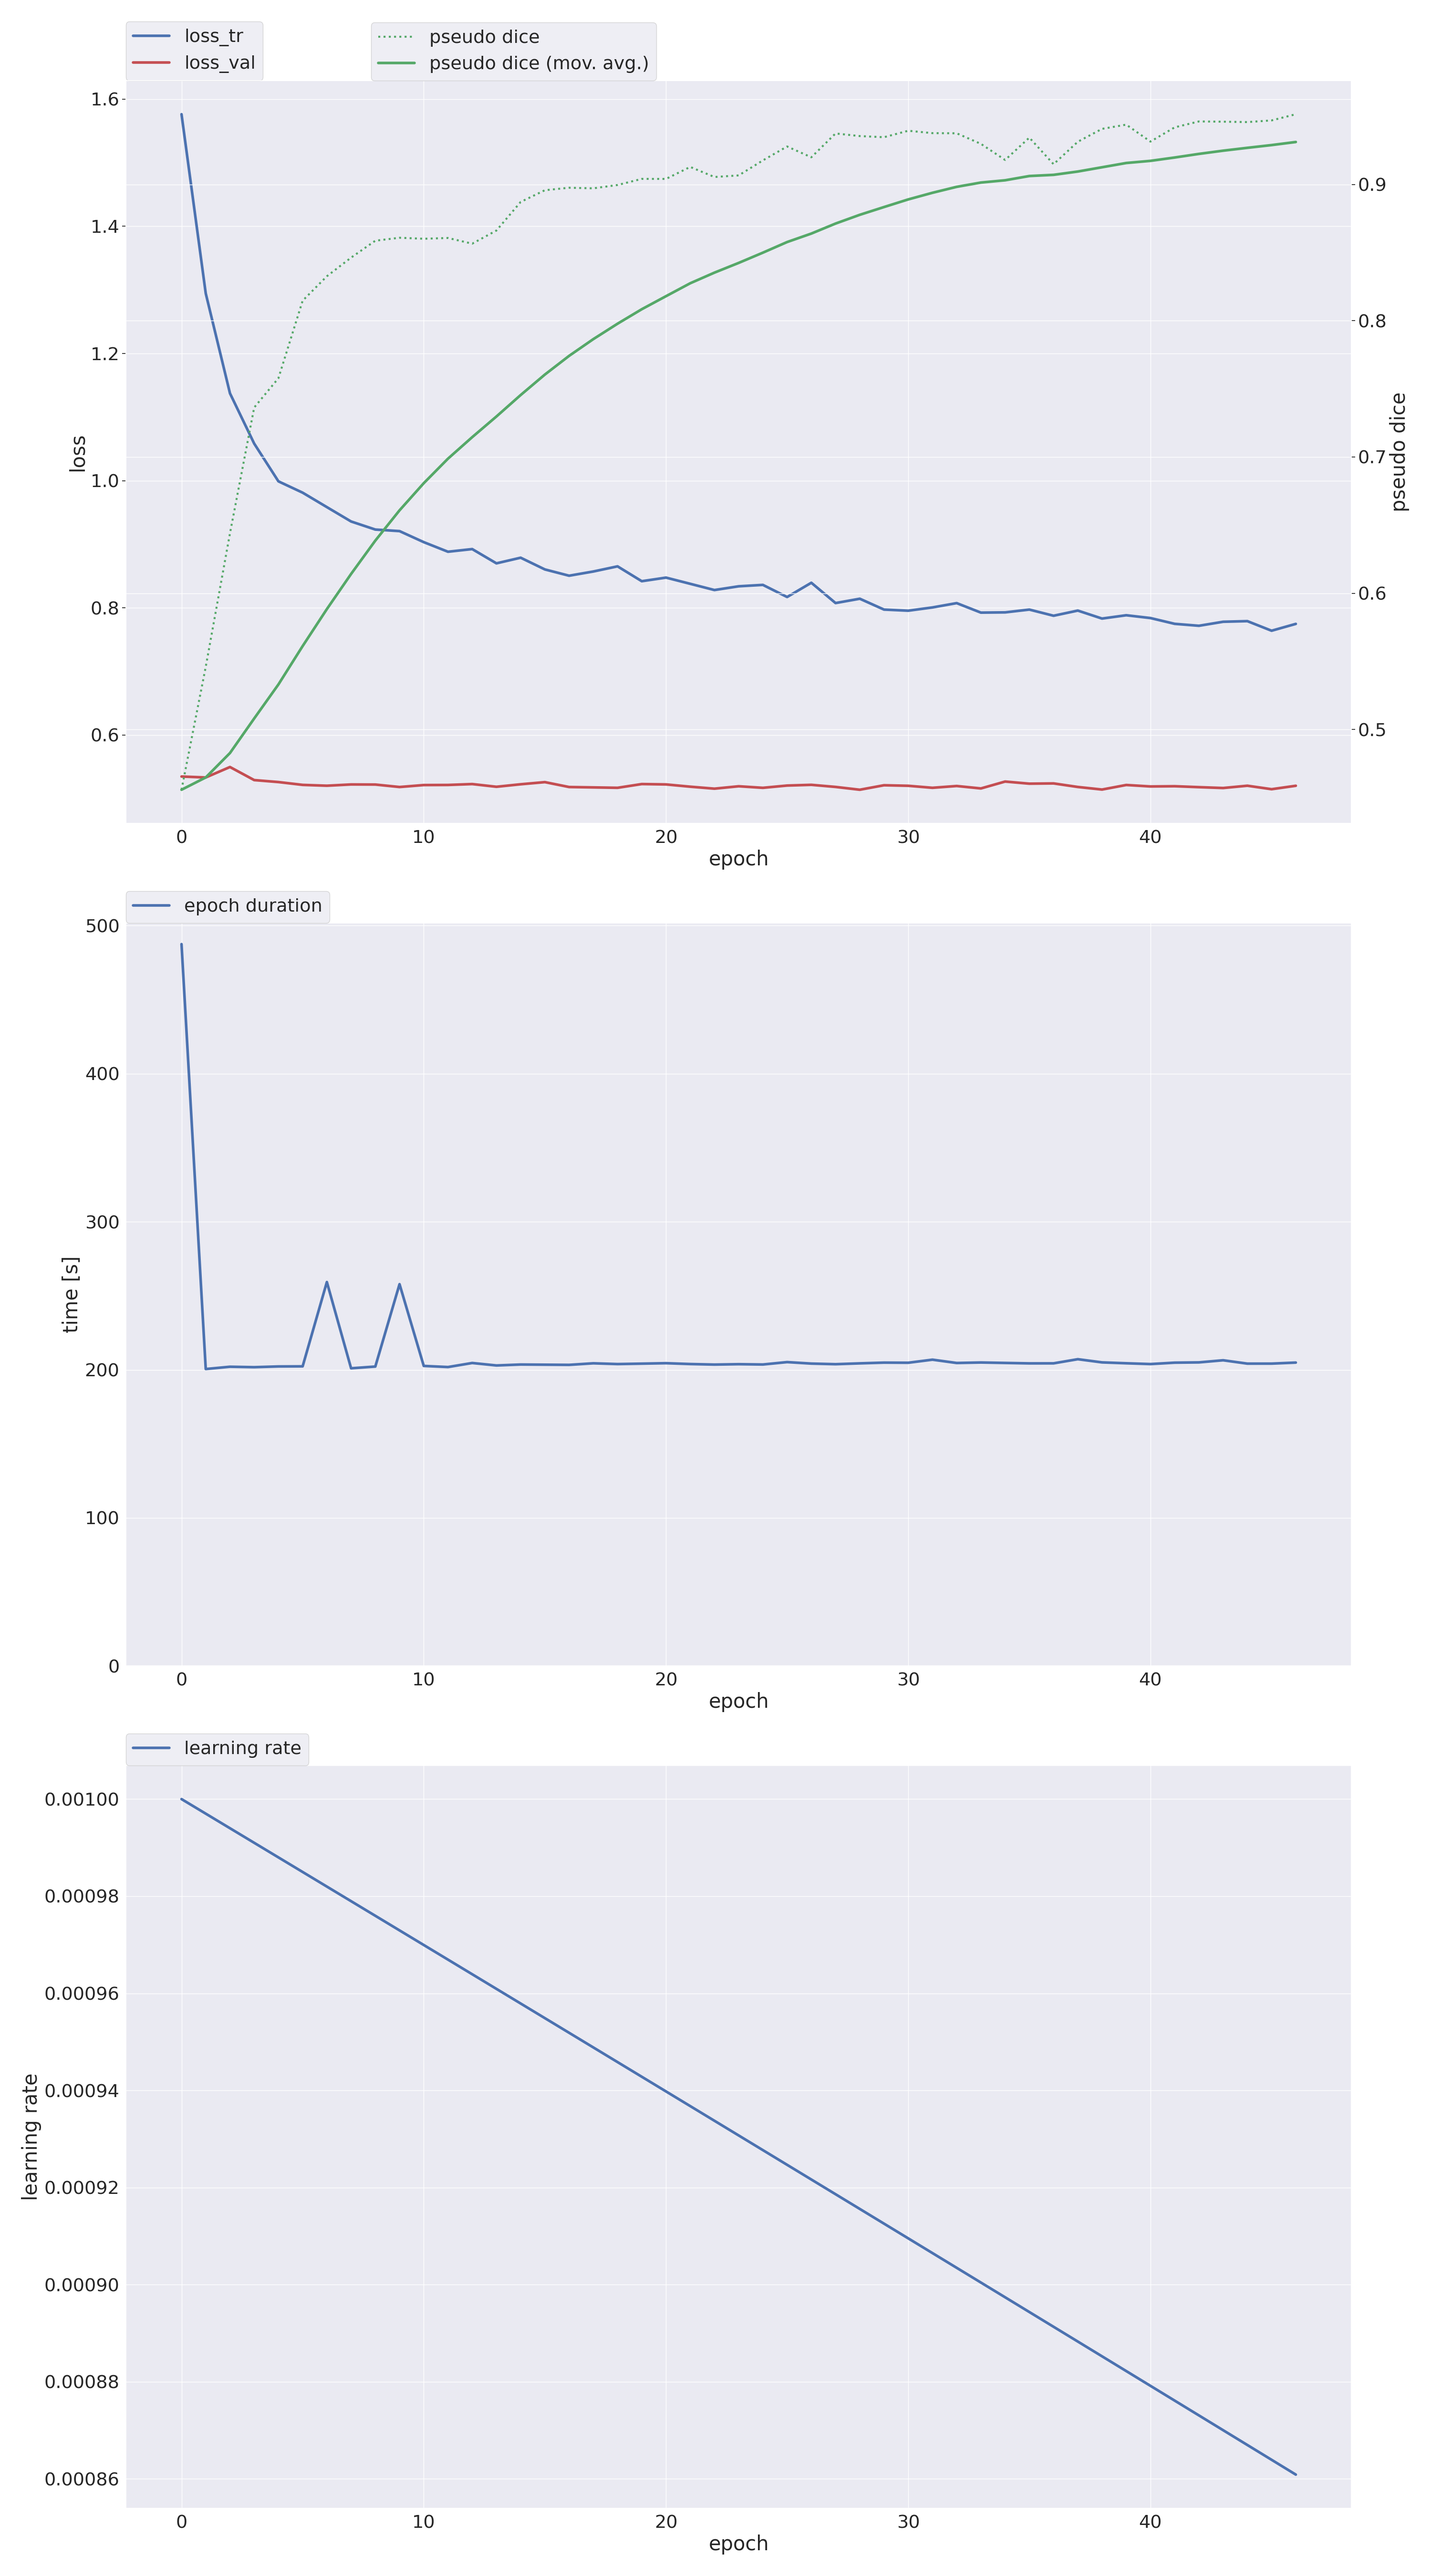
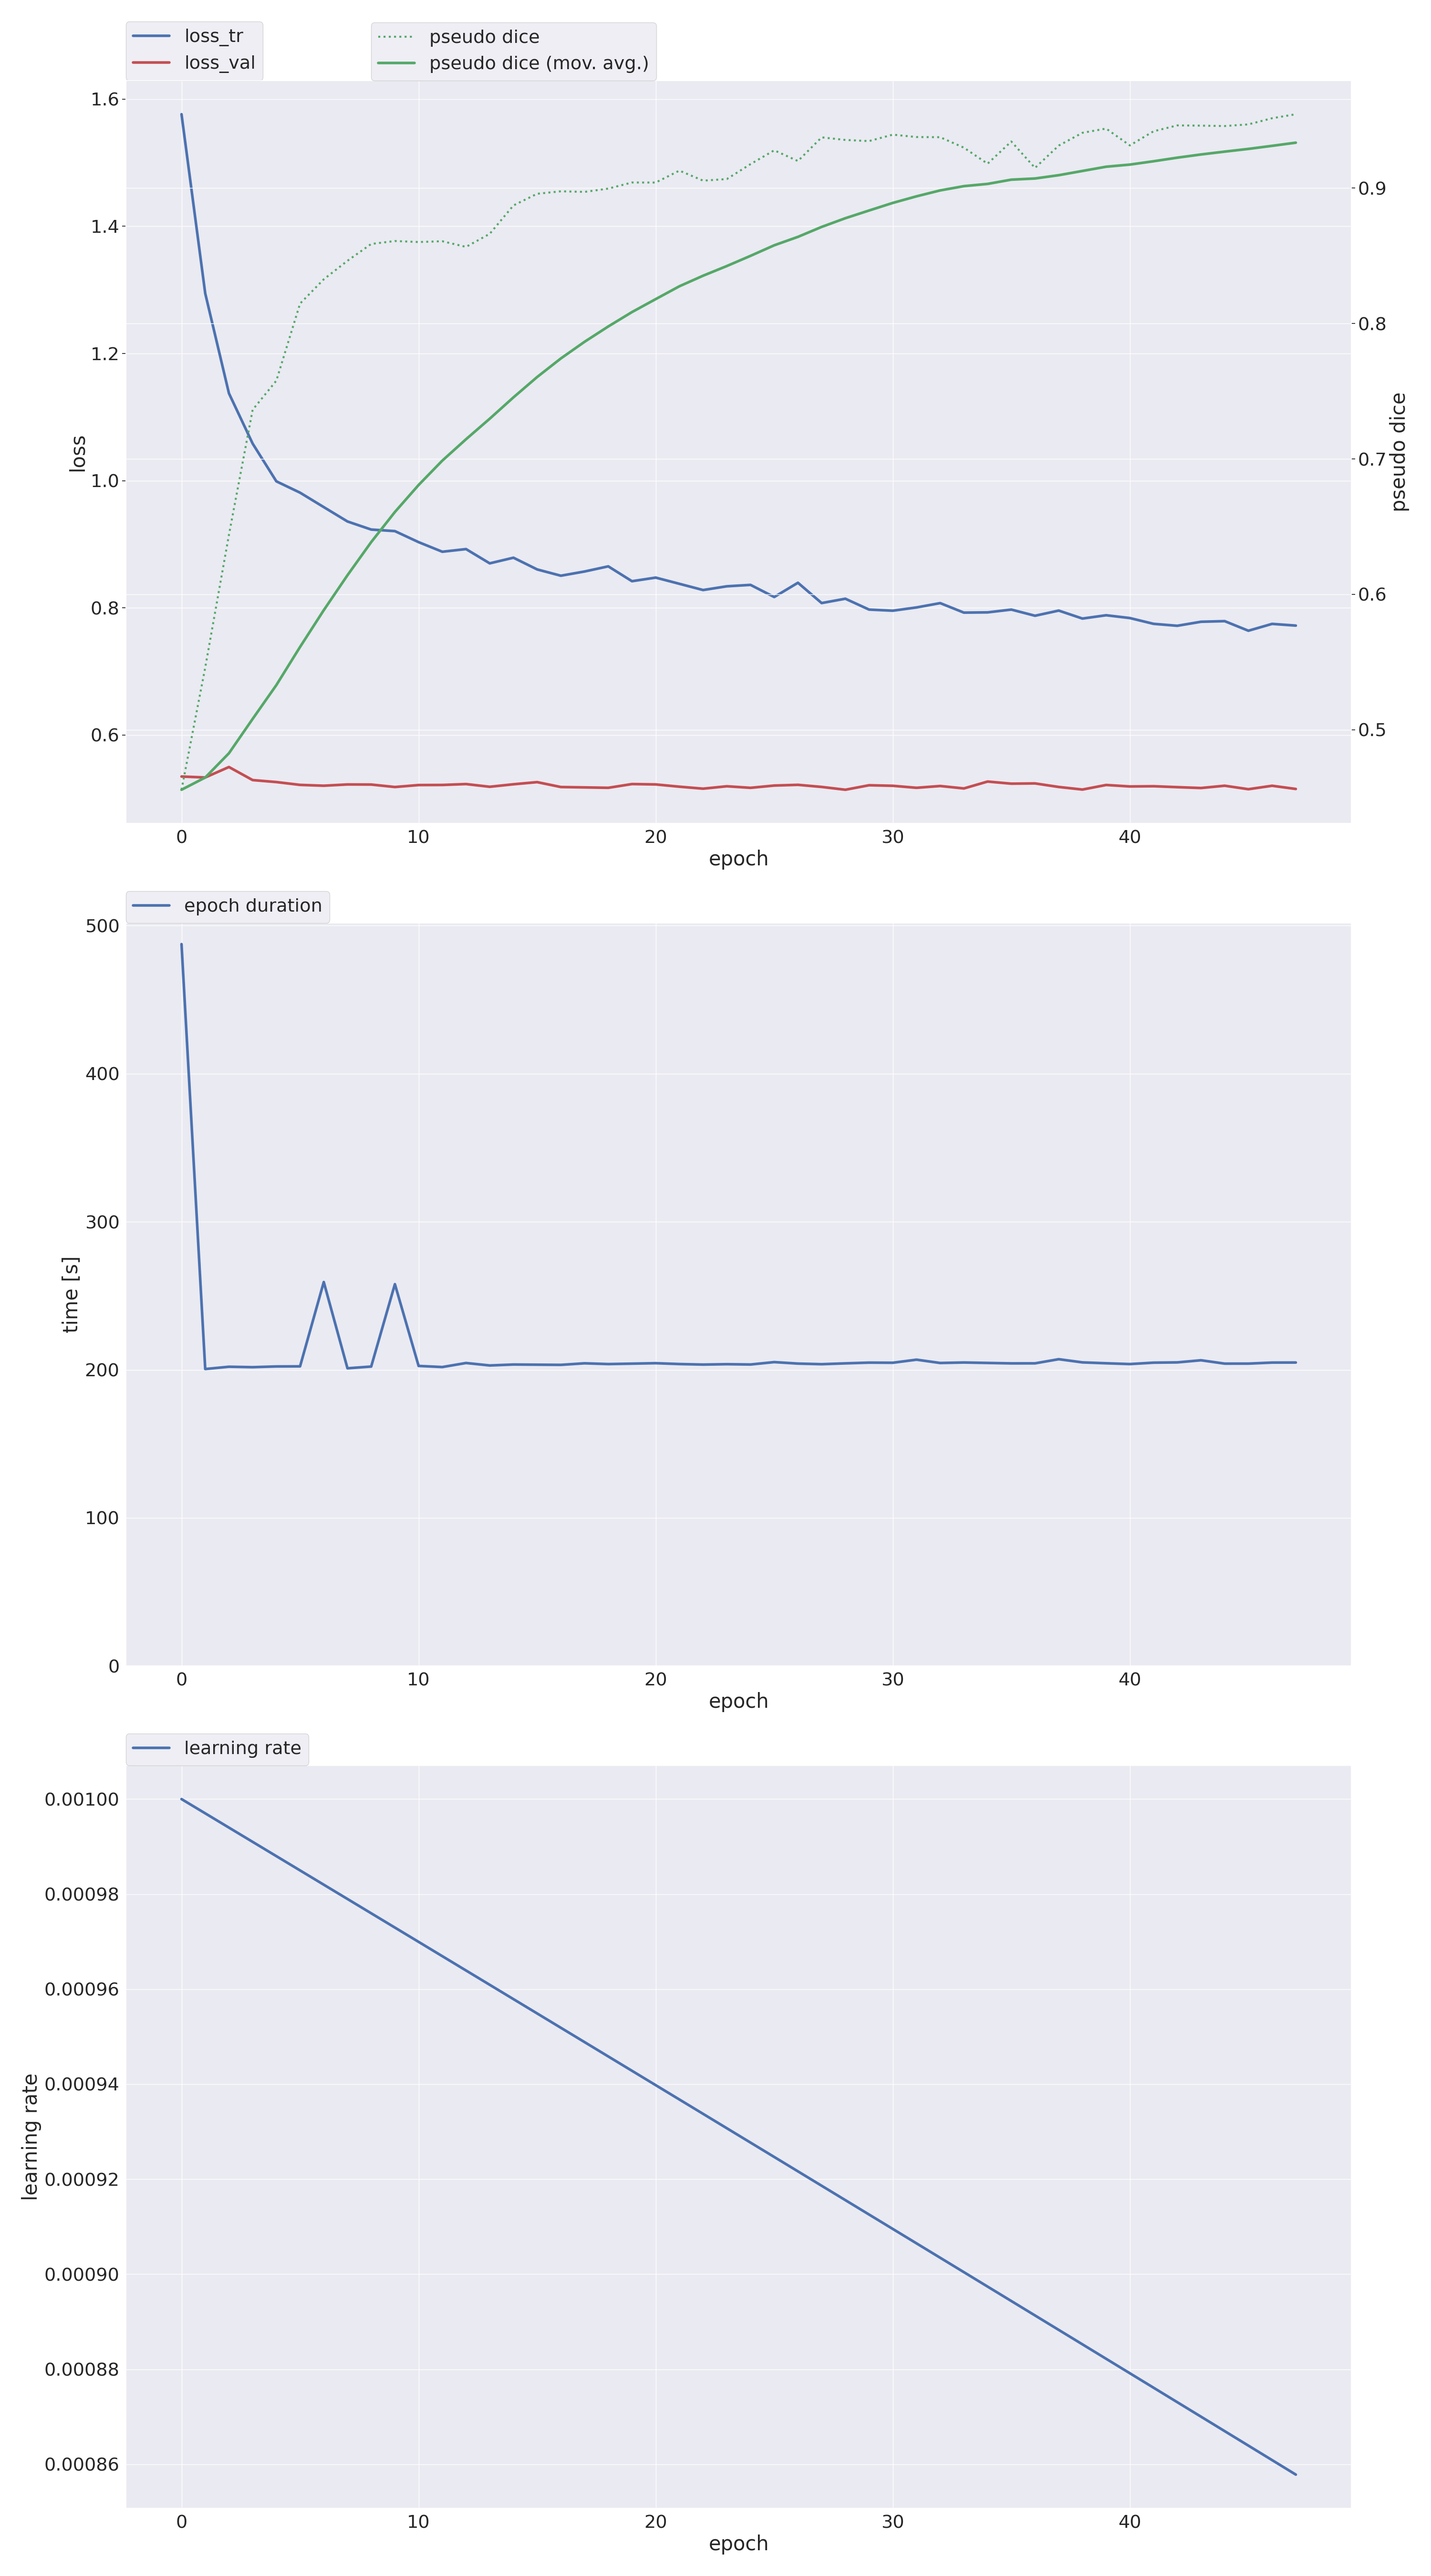
masksam

diff --git a/nnUNet/nnunetv2/training/nnUNetTrainer/nnUNetTrainer.py b/nnUNet/nnunetv2/training/nnUNetTrainer/nnUNetTrainer.py
@@ -336,7 +336,8 @@ class nnUNetTrainer(object):
     def _get_deep_supervision_scales(self):
         if self.enable_deep_supervision:
             deep_supervision_scales = list(list(i) for i in 1 / np.cumprod(np.vstack(
-                self.configuration_manager.pool_op_kernel_sizes), axis=0))[:-2]
+                self.configuration_manager.pool_op_kernel_sizes), axis=0))[:-1]
+            print("deep", deep_supervision_scales)
         else:
             deep_supervision_scales = None  # for train and val_transforms
         return deep_supervision_scales
